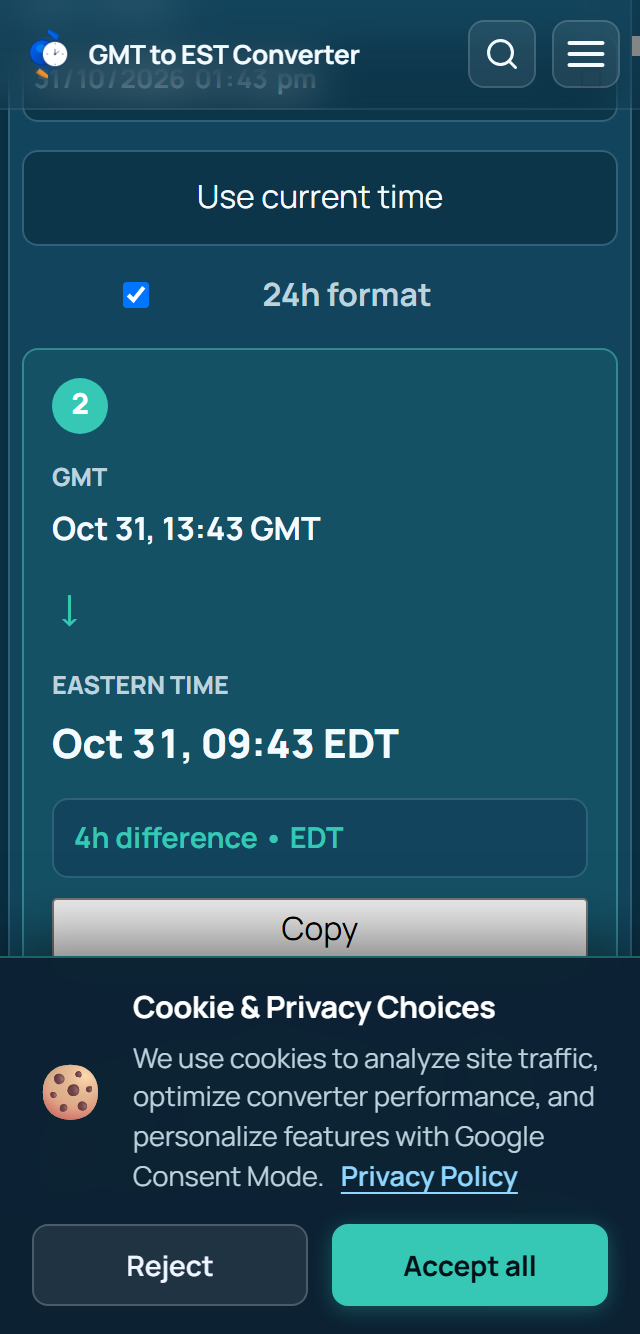
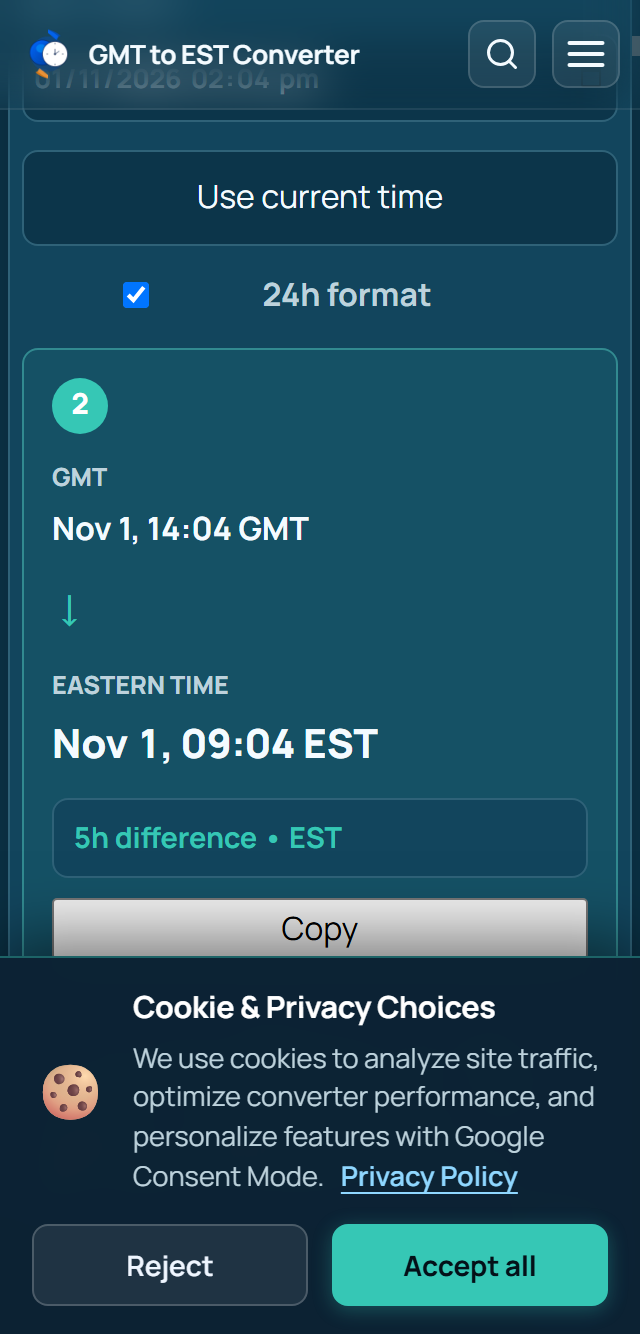
fix(dst): DST post-flip static copy rewrite across 7 converter pages

diff --git a/theme/utils/quickAnswerData.ts b/theme/utils/quickAnswerData.ts
@@ -197,6 +197,8 @@ export interface QuickAnswerPayload {
   targetLiveTime: string;
   liveTimeSentence: string;
   liveLineHtml?: string;
+  sourceIana?: string;
+  targetIana?: string;
   tableConversions: Array<{ sourceTime: string; targetTime: string; estTime?: string }>;
   tableCaption: string;
   faqs: Array<{ q: string; a: string }>;
@@ -599,12 +601,14 @@ export function getQuickAnswerPayload(
       faqHeading: "Frequently Asked Questions: GMT to Eastern Time",
       offsetA: 0,
       offsetAFormatted: "UTC+0",
-      definitionSentence: "GMT is 5 hours ahead of Eastern Standard Time (EST, UTC-5). When it is 12:00 PM in London (GMT, UTC+0), it is 7:00 AM in New York (EST). Greenwich Mean Time remains constant year-round, while North America’s Eastern zone observes standard time during winter months before advancing one hour in spring.",
+      definitionSentence: "GMT is 5 hours ahead of Eastern Standard Time (EST, UTC-5). When it is 12:00 PM in London (GMT, UTC+0), it is 7:00 AM in New York (EST). Greenwich Mean Time remains constant year-round, while North America's Eastern zone shifts one hour forward during summer daylight saving time.",
       sourceLiveTime,
       estLiveTime,
       targetLiveTime: estLiveTime,
       liveTimeSentence: `Right now: ${sourceLiveTime} GMT = ${estLiveTime} EST`,
       liveLineHtml: `Right now: <strong>${sourceLiveTime} GMT</strong> = <strong>${estLiveTime} EST</strong>`,
+      sourceIana: "UTC",
+      targetIana: "America/New_York",
       tableConversions: [
         { sourceTime: "12:00 AM GMT", targetTime: "7:00 PM EST (previous day)", estTime: "7:00 PM EST (previous day)" },
         { sourceTime: "6:00 AM GMT", targetTime: "1:00 AM EST", estTime: "1:00 AM EST" },
@@ -613,11 +617,11 @@ export function getQuickAnswerPayload(
         { sourceTime: "5:00 PM GMT", targetTime: "12:00 PM EST", estTime: "12:00 PM EST" },
         { sourceTime: "9:00 PM GMT", targetTime: "4:00 PM EST", estTime: "4:00 PM EST" }
       ],
-      tableCaption: `Eastern Time is EST (UTC-5), 5 hours behind GMT, until ${dstInfo.formattedDate} when daylight saving begins.`,
+      tableCaption: "Eastern Time is EST (UTC-5), 5 hours behind GMT, until 14 Mar 2027 when daylight saving time begins.",
       faqs: [
         {
           q: "What is the time difference between GMT and Eastern Time?",
-          a: `GMT is 5 hours ahead of Eastern Standard Time (EST, UTC-5) until ${dstInfo.formattedDate}, when clocks advance to Eastern Daylight Time (EDT, UTC-4), making GMT 4 hours ahead. GMT is UTC+0 all year.`
+          a: "GMT is 5 hours ahead of Eastern Standard Time (EST, UTC-5) until 14 Mar 2027, and 4 hours ahead of Eastern Daylight Time (EDT, UTC-4) during summer daylight saving time. GMT is UTC+0 all year."
         },
         {
           q: "Is GMT ahead of or behind Eastern Time?",
@@ -699,40 +703,43 @@ export function getQuickAnswerPayload(
     }
 
     return {
-      zoneA: "CDT",
+      zoneA: "CST",
       zoneB: "EST",
-      zoneAName: "Central Daylight Time",
+      zoneAName: "Central Standard Time",
       zoneBName: "Eastern Standard Time",
       zoneBHeader: "EST (Eastern Standard Time)",
-      offsetA: -5,
-      offsetAFormatted: "UTC-5",
-      definitionSentence: "CDT (Central Daylight Time, UTC-5) is 1 hour behind EDT (UTC-4) in daylight saving time (until 1 Nov 2026). While CDT shares UTC-5 with winter EST, Central Time operates on CST (UTC-6) in standard time.",
+      faqHeading: "Frequently Asked Questions: CST to EST",
+      offsetA: -6,
+      offsetAFormatted: "UTC-6",
+      definitionSentence: "CST (Central Standard Time, UTC-6) is 1 hour behind EST (Eastern Standard Time, UTC-5) until 14 Mar 2027, when clocks spring forward to CDT (UTC-5) and EDT (UTC-4).",
       sourceLiveTime,
       estLiveTime,
       targetLiveTime: estLiveTime,
-      liveTimeSentence: `Right now it is ${sourceLiveTime} CDT = ${estLiveTime} EST.`,
-      liveLineHtml: `Right now it is <strong>${sourceLiveTime} CDT</strong> = <strong>${estLiveTime} EST</strong>.`,
+      liveTimeSentence: `Right now: ${sourceLiveTime} CST = ${estLiveTime} EST`,
+      liveLineHtml: `Right now: <strong>${sourceLiveTime} CST</strong> = <strong>${estLiveTime} EST</strong>`,
+      sourceIana: "America/Chicago",
+      targetIana: "America/New_York",
       tableConversions: [
-        { sourceTime: "12:00 AM CDT", targetTime: "12:00 AM EST (same numeric offset)", estTime: "12:00 AM EST" },
-        { sourceTime: "6:00 AM CDT", targetTime: "6:00 AM EST (same numeric offset)", estTime: "6:00 AM EST" },
-        { sourceTime: "9:00 AM CDT", targetTime: "9:00 AM EST (same numeric offset)", estTime: "9:00 AM EST" },
-        { sourceTime: "12:00 PM CDT", targetTime: "12:00 PM EST (same numeric offset)", estTime: "12:00 PM EST" },
-        { sourceTime: "6:00 PM CDT", targetTime: "6:00 PM EST (same numeric offset)", estTime: "6:00 PM EST" },
-        { sourceTime: "9:00 PM CDT", targetTime: "9:00 PM EST (same numeric offset)", estTime: "9:00 PM EST" }
+        { sourceTime: "12:00 AM CST", targetTime: "1:00 AM EST", estTime: "1:00 AM EST" },
+        { sourceTime: "6:00 AM CST", targetTime: "7:00 AM EST", estTime: "7:00 AM EST" },
+        { sourceTime: "9:00 AM CST", targetTime: "10:00 AM EST", estTime: "10:00 AM EST" },
+        { sourceTime: "12:00 PM CST", targetTime: "1:00 PM EST", estTime: "1:00 PM EST" },
+        { sourceTime: "6:00 PM CST", targetTime: "7:00 PM EST", estTime: "7:00 PM EST" },
+        { sourceTime: "9:00 PM CST", targetTime: "10:00 PM EST", estTime: "10:00 PM EST" }
       ],
-      tableCaption: "CDT (UTC-5) shares the UTC-5 offset with winter EST, but Central Time observes CST (UTC-6) during standard winter time.",
+      tableCaption: "Central Standard Time (CST, UTC-6 until 14 Mar 2027) is 1 hour behind Eastern Standard Time (EST, UTC-5 until 14 Mar 2027).",
       faqs: [
         {
-          q: "What is the time difference between CDT and EST?",
-          a: "CDT and EST share the same numeric offset (UTC-5), but CDT is observed in summer while EST is observed in winter. Central Time is CST (UTC-6) during winter."
+          q: "What is the time difference between CST and EST?",
+          a: "Central Standard Time (CST, UTC-6) is 1 hour behind Eastern Standard Time (EST, UTC-5) until 14 Mar 2027, when clocks spring forward to CDT (UTC-5) and EDT (UTC-4)."
         },
         {
-          q: "Is CDT ahead of or behind EST?",
-          a: "CDT and EST share the same UTC-5 offset, but CDT operates in summer and EST operates in winter."
+          q: "Is CST ahead of or behind EST?",
+          a: "CST is behind EST. Specifically, CST is 1 hour behind Eastern Standard Time."
         },
         {
           q: "Does Central Time stay 1 hour behind Eastern Time?",
-          a: "Yes. Both regions transition together on the same dates: CDT to EDT (summer) and CST to EST (winter), keeping Eastern Time 1 hour ahead year-round."
+          a: "Yes. Both regions transition together on the same dates: CST to EST (winter) and CDT to EDT (summer), keeping Eastern Time 1 hour ahead year-round."
         }
       ]
     };
@@ -811,14 +818,17 @@ export function getQuickAnswerPayload(
       zoneAName: "Central Standard Time",
       zoneBName: "Eastern Standard Time",
       zoneBHeader: "EST (Eastern Standard Time)",
+      faqHeading: "Frequently Asked Questions: CST to EST",
       offsetA: -6,
       offsetAFormatted: "UTC-6",
-      definitionSentence: "CST (Central Standard Time, UTC-6) is 1 hour behind EST (Eastern Standard Time, UTC-5). Eastern Time is consistently 1 hour ahead of Central Time year-round.",
+      definitionSentence: "Central Time is CST (UTC-6) and Eastern Time is EST (UTC-5) until 14 Mar 2027, then CDT (UTC-5) and EDT (UTC-4). Eastern Time is consistently 1 hour ahead of Central Time year-round.",
       sourceLiveTime,
       estLiveTime,
       targetLiveTime: estLiveTime,
-      liveTimeSentence: `Right now it is ${sourceLiveTime} CST = ${estLiveTime} EST.`,
-      liveLineHtml: `Right now it is <strong>${sourceLiveTime} CST</strong> = <strong>${estLiveTime} EST</strong>.`,
+      liveTimeSentence: `Right now: ${sourceLiveTime} CST = ${estLiveTime} EST`,
+      liveLineHtml: `Right now: <strong>${sourceLiveTime} CST</strong> = <strong>${estLiveTime} EST</strong>`,
+      sourceIana: "America/Chicago",
+      targetIana: "America/New_York",
       tableConversions: [
         { sourceTime: "12:00 AM CST", targetTime: "1:00 AM EST", estTime: "1:00 AM EST" },
         { sourceTime: "6:00 AM CST", targetTime: "7:00 AM EST", estTime: "7:00 AM EST" },
@@ -827,11 +837,11 @@ export function getQuickAnswerPayload(
         { sourceTime: "6:00 PM CST", targetTime: "7:00 PM EST", estTime: "7:00 PM EST" },
         { sourceTime: "9:00 PM CST", targetTime: "10:00 PM EST", estTime: "10:00 PM EST" }
       ],
-      tableCaption: "Central Time is CST (UTC-6) and Eastern Time is EST (UTC-5) during standard winter time.",
+      tableCaption: "Central Time is CST (UTC-6) and Eastern Time is EST (UTC-5) until 14 Mar 2027, then CDT (UTC-5) and EDT (UTC-4).",
       faqs: [
         {
           q: "What is the time difference between CST and EST?",
-          a: "Central Standard Time (CST, UTC-6) is 1 hour behind Eastern Standard Time (EST, UTC-5)."
+          a: "Central Standard Time (CST, UTC-6) is 1 hour behind Eastern Standard Time (EST, UTC-5) until 14 Mar 2027, then CDT (UTC-5) and EDT (UTC-4)."
         },
         {
           q: "Is CST ahead of or behind EST?",
@@ -966,23 +976,55 @@ export function getQuickAnswerPayload(
   const diffFormatted = formatHoursDifference(delta);
   const offsetAFormatted = formatUtc(sourceOffset);
 
+  let actualZoneA = meta.abbr;
+  let actualZoneAName = meta.name;
+  let actualOffsetAFormatted = offsetAFormatted;
+  let actualSourceOffset = sourceOffset;
+  let actualSourceIana = meta.iana;
+  let customFaqHeading: string | undefined = undefined;
+
   // 1. Definition Sentence
   let definitionSentence = "";
   if (isEasternDaylight) {
     if (delta > 0) {
-      definitionSentence = `${meta.abbr} (${meta.name}, ${offsetAFormatted}) is ${diffFormatted} ahead of EDT (Eastern Daylight Time, UTC-4) until 1 Nov 2026, then EST (UTC-5).`;
+      definitionSentence = `${meta.abbr} (${meta.name}, ${offsetAFormatted}) is ${diffFormatted} ahead of EDT (Eastern Daylight Time, UTC-4).`;
     } else if (delta < 0) {
-      definitionSentence = `${meta.abbr} (${meta.name}, ${offsetAFormatted}) is ${diffFormatted} behind EDT (Eastern Daylight Time, UTC-4) until 1 Nov 2026, then EST (UTC-5).`;
+      definitionSentence = `${meta.abbr} (${meta.name}, ${offsetAFormatted}) is ${diffFormatted} behind EDT (Eastern Daylight Time, UTC-4).`;
     } else {
-      definitionSentence = `${meta.abbr} (${meta.name}, ${offsetAFormatted}) is at the same time as EDT (Eastern Daylight Time, UTC-4) until 1 Nov 2026, then EST (UTC-5).`;
+      definitionSentence = `${meta.abbr} (${meta.name}, ${offsetAFormatted}) is at the same time as EDT (Eastern Daylight Time, UTC-4).`;
     }
   } else {
-    if (delta > 0) {
-      definitionSentence = `${meta.abbr} (${meta.name}, ${offsetAFormatted}) is ${diffFormatted} ahead of EST (Eastern Standard Time, UTC−5).`;
-    } else if (delta < 0) {
-      definitionSentence = `${meta.abbr} (${meta.name}, ${offsetAFormatted}) is ${diffFormatted} behind EST (Eastern Standard Time, UTC−5).`;
+    if (sourceCode === "MST") {
+      actualZoneA = "MST";
+      actualSourceIana = "America/Denver";
+      customFaqHeading = "Frequently Asked Questions: MST to EST";
+      definitionSentence = "MST (Mountain Standard Time, UTC−6) is 2 hours behind EST (Eastern Standard Time, UTC-5) until 14 Mar 2027, then EDT (UTC-4).";
+    } else if (sourceCode === "PDT" || sourceCode === "PST") {
+      actualZoneA = "PST";
+      actualZoneAName = "Pacific Standard Time";
+      actualOffsetAFormatted = "UTC-8";
+      actualSourceOffset = -8;
+      actualSourceIana = "America/Los_Angeles";
+      customFaqHeading = "Frequently Asked Questions: PST to EST";
+      definitionSentence = "PST (Pacific Standard Time, UTC-8) is 3 hours behind EST (Eastern Standard Time, UTC-5) until 14 Mar 2027, then EDT (UTC-4).";
+    } else if (sourceCode === "EDT") {
+      actualZoneA = "EDT";
+      actualSourceIana = "America/New_York";
+      customFaqHeading = "Frequently Asked Questions: EDT to EST";
+      definitionSentence = "EDT (Eastern Daylight Time, UTC−4) is 1 hour ahead of EST (Eastern Standard Time, UTC−5). Eastern Time is currently on EST and returns to EDT on 14 Mar 2027 when daylight saving time begins.";
+    } else if (sourceCode === "JST") {
+      actualZoneA = "JST";
+      actualSourceIana = "Asia/Tokyo";
+      customFaqHeading = "Frequently Asked Questions: JST to EST";
+      definitionSentence = "JST (Japan Standard Time, UTC+9) is 14 hours ahead of EST (Eastern Standard Time, UTC-5) until 14 Mar 2027, then EDT (UTC-4).";
     } else {
-      definitionSentence = `${meta.abbr} (${meta.name}, ${offsetAFormatted}) is at the same time as EST (Eastern Standard Time, UTC−5).`;
+      if (delta > 0) {
+        definitionSentence = `${meta.abbr} (${meta.name}, ${offsetAFormatted}) is ${diffFormatted} ahead of EST (Eastern Standard Time, UTC−5).`;
+      } else if (delta < 0) {
+        definitionSentence = `${meta.abbr} (${meta.name}, ${offsetAFormatted}) is ${diffFormatted} behind EST (Eastern Standard Time, UTC−5).`;
+      } else {
+        definitionSentence = `${meta.abbr} (${meta.name}, ${offsetAFormatted}) is at the same time as EST (Eastern Standard Time, UTC−5).`;
+      }
     }
   }
 
@@ -994,7 +1036,7 @@ export function getQuickAnswerPayload(
       hour: "numeric",
       minute: "2-digit",
       hour12: true,
-      timeZone: meta.iana
+      timeZone: actualSourceIana
     }).format(now);
   } catch (e) {
     sourceLiveTime = "--:--";
@@ -1011,18 +1053,23 @@ export function getQuickAnswerPayload(
     estLiveTime = "--:--";
   }
 
-  const liveTimeSentence = `Right now it is ${sourceLiveTime} ${meta.abbr} = ${estLiveTime} ${targetAbbr}.`;
-  const liveLineHtml = `Right now it is <strong>${sourceLiveTime} ${meta.abbr}</strong> = <strong>${estLiveTime} ${targetAbbr}</strong>.`;
+  let liveTimeSentence = `Right now: ${sourceLiveTime} ${actualZoneA} = ${estLiveTime} ${targetAbbr}`;
+  let liveLineHtml = `Right now: <strong>${sourceLiveTime} ${actualZoneA}</strong> = <strong>${estLiveTime} ${targetAbbr}</strong>`;
+
+  if (sourceCode === "EDT" && !isEasternDaylight) {
+    liveTimeSentence = `Right now: ${estLiveTime} EST (EDT is not observed until 14 Mar 2027)`;
+    liveLineHtml = `Right now: <strong>${estLiveTime} EST</strong> (EDT is not observed until 14 Mar 2027)`;
+  }
 
   // 3. Compact Static Table: 12 AM, 6 AM, 9 AM, 12 PM, 6 PM, 9 PM
   const sampleHours = [0, 6, 9, 12, 18, 21];
-  const minutesDiff = Math.round((targetOffset - sourceOffset) * 60);
+  const minutesDiff = Math.round((targetOffset - actualSourceOffset) * 60);
 
   const tableConversions = sampleHours.map((h) => {
     // Source Time Format
     const sourcePeriod = h < 12 ? "AM" : "PM";
     const sourceDisplayHour = h % 12 || 12;
-    const sourceTime = `${sourceDisplayHour}:00 ${sourcePeriod} ${meta.abbr}`;
+    const sourceTime = `${sourceDisplayHour}:00 ${sourcePeriod} ${actualZoneA}`;
 
     // Target Calculation
     const totalEstMinutes = h * 60 + minutesDiff;
@@ -1047,37 +1094,37 @@ export function getQuickAnswerPayload(
   });
 
   const tableCaption = isEasternDaylight
-    ? `Eastern Time is EDT (UTC-4) until 1 Nov 2026, then falls back to EST (UTC-5).`
-    : `Standard time conversions. Eastern Time is EST (UTC-5) during winter and shifts to EDT (UTC-4) in summer.`;
+    ? `Eastern Time is EDT (UTC-4) during summer daylight saving time.`
+    : `Standard time conversions. Eastern Time is EST (UTC-5) until 14 Mar 2027, then shifts to EDT (UTC-4) when daylight saving begins.`;
 
   // 4. 3 Visible FAQs
-  const faq1Question = `What is the time difference between ${meta.abbr} and EST?`;
+  const faq1Question = `What is the time difference between ${actualZoneA} and EST?`;
   let faq1Answer = "";
-  if (meta.abbr === "EST") {
+  if (actualZoneA === "EST") {
     faq1Answer = "Eastern Standard Time (EST, UTC−5) is the same time zone, so there is no time difference.";
   } else if (delta > 0) {
-    faq1Answer = `The standard time difference between ${meta.name} (${meta.abbr}, ${offsetAFormatted}) and Eastern Standard Time (EST, UTC−5) is ${diffFormatted}. ${meta.abbr} is ${diffFormatted} ahead of EST.`;
+    faq1Answer = `The standard time difference between ${actualZoneAName} (${actualZoneA}, ${actualOffsetAFormatted}) and Eastern Standard Time (EST, UTC−5) is ${diffFormatted}. ${actualZoneA} is ${diffFormatted} ahead of EST.`;
   } else if (delta < 0) {
-    faq1Answer = `The standard time difference between ${meta.name} (${meta.abbr}, ${offsetAFormatted}) and Eastern Standard Time (EST, UTC−5) is ${diffFormatted}. EST is ${diffFormatted} ahead of ${meta.abbr} (${meta.abbr} is ${diffFormatted} behind EST).`;
+    faq1Answer = `The standard time difference between ${actualZoneAName} (${actualZoneA}, ${actualOffsetAFormatted}) and Eastern Standard Time (EST, UTC−5) is ${diffFormatted}. EST is ${diffFormatted} ahead of ${actualZoneA} (${actualZoneA} is ${diffFormatted} behind EST).`;
   } else {
-    faq1Answer = `Both ${meta.abbr} (${meta.name}, ${offsetAFormatted}) and Eastern Standard Time (EST, UTC−5) operate at the same standard offset of UTC−5 with zero time difference.`;
+    faq1Answer = `Both ${actualZoneA} (${actualZoneAName}, ${actualOffsetAFormatted}) and Eastern Standard Time (EST, UTC−5) operate at the same standard offset of UTC−5 with zero time difference.`;
   }
 
-  const faq2Question = `Is ${meta.abbr} ahead of or behind EST?`;
+  const faq2Question = `Is ${actualZoneA} ahead of or behind EST?`;
   let faq2Answer = "";
   if (delta > 0) {
-    faq2Answer = `${meta.abbr} is ahead of EST. Specifically, ${meta.abbr} is ${diffFormatted} ahead of Eastern Standard Time.`;
+    faq2Answer = `${actualZoneA} is ahead of EST. Specifically, ${actualZoneA} is ${diffFormatted} ahead of Eastern Standard Time.`;
   } else if (delta < 0) {
-    faq2Answer = `${meta.abbr} is behind EST. Specifically, ${meta.abbr} is ${diffFormatted} behind Eastern Standard Time.`;
+    faq2Answer = `${actualZoneA} is behind EST. Specifically, ${actualZoneA} is ${diffFormatted} behind Eastern Standard Time.`;
   } else {
-    faq2Answer = `${meta.abbr} is neither ahead nor behind EST; both share the same UTC offset of UTC−5 during standard time.`;
+    faq2Answer = `${actualZoneA} is neither ahead nor behind EST; both share the same UTC offset of UTC−5 during standard time.`;
   }
 
-  const faq3Question = `Does the ${meta.abbr} to EST difference change during daylight saving time?`;
+  const faq3Question = `Does the ${actualZoneA} to EST difference change during daylight saving time?`;
   let faq3Answer = "";
   switch (meta.dstCategory) {
     case "us_same":
-      faq3Answer = `No, the difference between ${meta.abbr} and Eastern Time remains ${diffFormatted} year-round because both regions observe Daylight Saving Time on the same schedule, transitioning between standard time and daylight saving time simultaneously.`;
+      faq3Answer = `No, the difference between ${actualZoneA} and Eastern Time remains ${diffFormatted} year-round because both regions observe Daylight Saving Time on the same schedule, transitioning between standard time and daylight saving time simultaneously.`;
       break;
     case "uk_eu":
       faq3Answer = `Yes, the difference changes by 1 hour for 1 to 3 weeks each spring and autumn because the United Kingdom and Europe transition into and out of daylight saving time on different dates than North America.`;
@@ -1086,11 +1133,11 @@ export function getQuickAnswerPayload(
       faq3Answer = `Yes, the time difference changes because the Southern Hemisphere observes Daylight Saving Time during the North American winter, causing clocks to move in opposite directions across seasons.`;
       break;
     case "canada_atlantic":
-      faq3Answer = `No, the time difference between ${meta.abbr} and Eastern Time remains consistent year-round because Atlantic Canada and Eastern Time switch to Daylight Saving Time on identical dates.`;
+      faq3Answer = `No, the time difference between ${actualZoneA} and Eastern Time remains consistent year-round because Atlantic Canada and Eastern Time switch to Daylight Saving Time on identical dates.`;
       break;
     case "no_dst":
     default:
-      faq3Answer = `Yes. Because Eastern Time shifts between EST (UTC−5) in winter and EDT (UTC-4) in summer while ${meta.abbr} does not observe Daylight Saving Time, the difference changes by 1 hour during Daylight Saving Time.`;
+      faq3Answer = `Yes. Because Eastern Time shifts between EST (UTC−5) in winter and EDT (UTC-4) in summer while ${actualZoneA} does not observe Daylight Saving Time, the difference changes by 1 hour during Daylight Saving Time.`;
       break;
   }
 
@@ -1101,19 +1148,22 @@ export function getQuickAnswerPayload(
   ];
 
   return {
-    zoneA: meta.abbr,
+    zoneA: actualZoneA,
     zoneB: targetAbbr,
-    zoneAName: meta.name,
+    zoneAName: actualZoneAName,
     zoneBName: targetName,
     zoneBHeader: targetHeader,
-    offsetA: sourceOffset,
-    offsetAFormatted,
+    faqHeading: customFaqHeading,
+    offsetA: actualSourceOffset,
+    offsetAFormatted: actualOffsetAFormatted,
     definitionSentence,
     sourceLiveTime,
     estLiveTime,
     targetLiveTime: estLiveTime,
     liveTimeSentence,
     liveLineHtml,
+    sourceIana: actualSourceIana,
+    targetIana: "America/New_York",
     tableConversions,
     tableCaption,
     faqs
